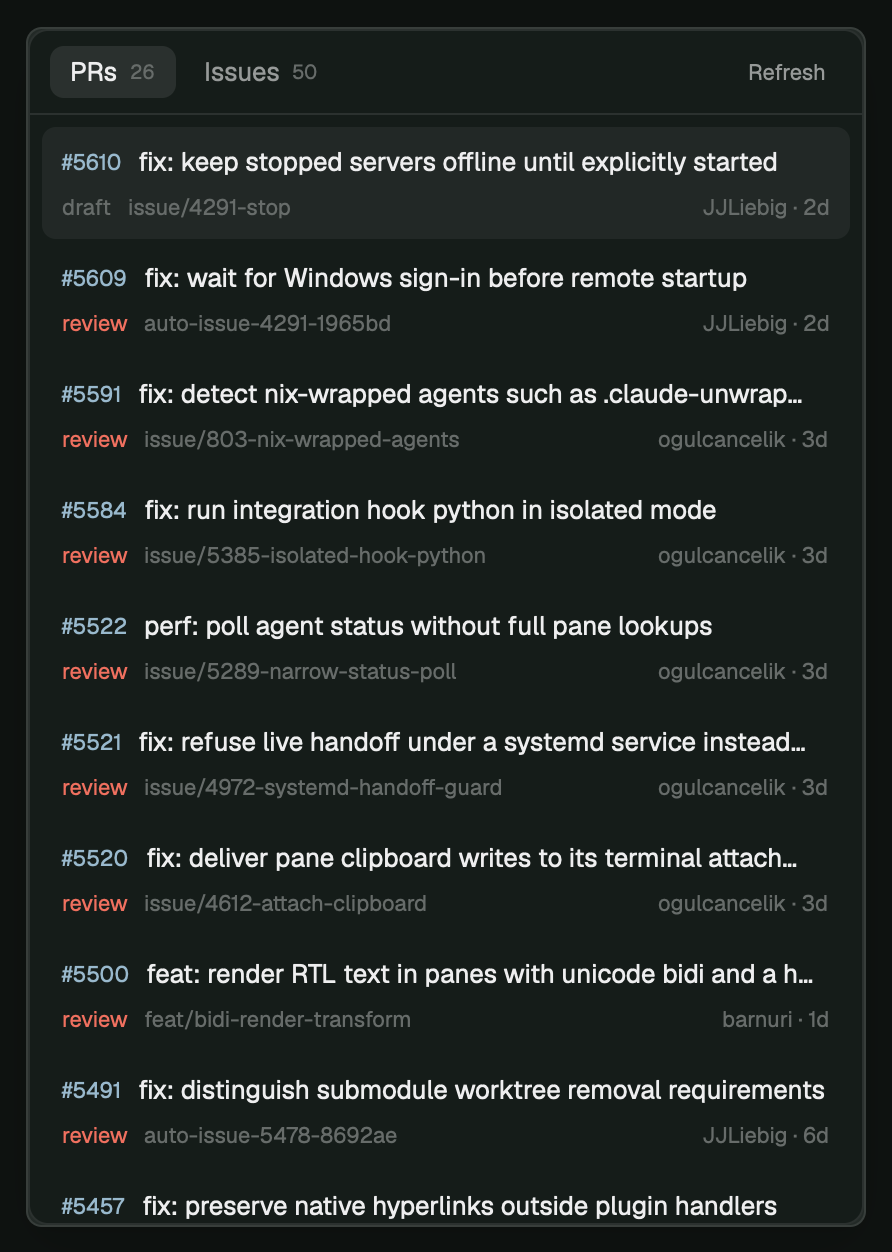
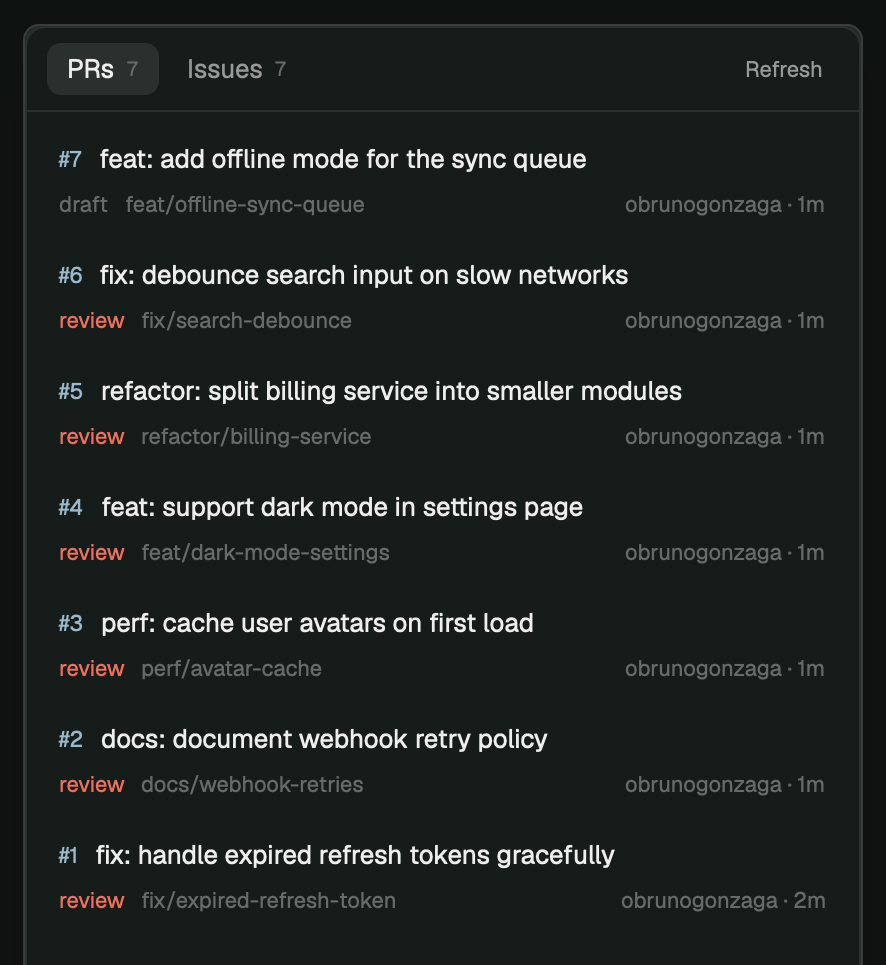
feat: add tab switch commands and demo-data previews to github panel
Claude-Session: https://claude.ai/code/session_01R16fC41bCWFVsqKFna4iwp

Changed region(s): [[0.0305, 0.0, 0.9752, 1.0], [0.0, 0.9637, 0.0305, 1.0]]

diff --git a/github-panel/mods/github/main.js b/github-panel/mods/github/main.js
@@ -1,6 +1,6 @@
 import { View, div } from "gpui-kit";
 import { v_flex, h_flex } from "gpui-base";
-import { spaces, panes, focused, exec, theme } from "herdr";
+import { spaces, panes, focused, exec, theme, nextCommand } from "herdr";
 
 const REFRESH_MS = 60000;
 const LIMIT = "50";
@@ -49,6 +49,18 @@ export default class GitHub extends View {
     this.tab = "prs"; this.items = { prs: [], issues: [] };
     this.refresh(cx);
     cx.timer.every(REFRESH_MS, (cx) => this.refresh(cx));
+    this.listenCommands(cx);
+  }
+
+  listenCommands(cx) {
+    cx.spawn(async (cx) => {
+      for (;;) {
+        const command = await nextCommand();
+        if (command in KINDS) this.tab = command;
+        if (command === "refresh") this.refresh(cx);
+        cx.notify();
+      }
+    });
   }
 
   refresh(cx) {

diff --git a/github-panel/RECIPE.md b/github-panel/RECIPE.md
@@ -42,6 +42,7 @@ As a popup it is 420×600 px, centered.
 - A click on a row runs `open <url>` on this computer, so the browser opens even for a space on
   a remote machine.
 - The tab choice is not saved.
+- Commands: `github.prs` and `github.issues` switch the tab, `github.refresh` reloads. Bind them in `keys.json` (for example `"cmd-shift-i": "github.issues"`) or run them with `herdr-app do github.issues`. They reach shown copies only.
 
 ## Built from
 
@@ -52,7 +53,7 @@ As a popup it is 420×600 px, centered.
   button in a cloned layout.
 - `keys.json`: `{ "global": { "cmd-shift-g": "mod.open:github" } }`.
 - `herdr` functions: `spaces`, `panes`, `focused` (to find the folder and machine), `exec`,
-  `theme`.
+  `theme`, `nextCommand` (a loop started in `init` that reads `prs`, `issues` and `refresh`).
 - Programs: `gh pr list --state open --limit 50 --json
   number,title,author,url,isDraft,updatedAt,reviewDecision,headRefName` and `gh issue list
   --state open --limit 50 --json number,title,author,url,labels,updatedAt`, run in the folder
@@ -79,3 +80,4 @@ As a popup it is 420×600 px, centered.
   counts in both tabs.
 - Clicking a row opens that PR or issue in the browser.
 - Switching to a space that isn't a repo shows `Not a git repository`.
+- `herdr-app do github.issues` with the panel shown switches it to the Issues tab.

diff --git a/README.md b/README.md
@@ -6,7 +6,9 @@ Mods for [Herdr](https://github.com/herdrdev/herdr-app), the desktop app for ter
 | --- | --- |
 | [github-panel](github-panel/RECIPE.md) | Open PRs and issues of the space's repo, via `gh`. `cmd-shift-g` opens it. |
 
-![GitHub panel](github-panel/preview.png)
+| Popup (`cmd-shift-g`) | Side panel (cloned layout) |
+| --- | --- |
+| ![GitHub popup](github-panel/preview.png) | ![GitHub side panel](github-panel/panel.png) |
 
 ## Install
 
